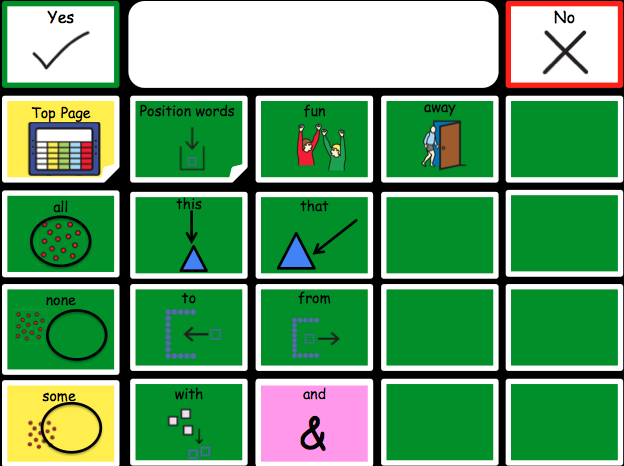
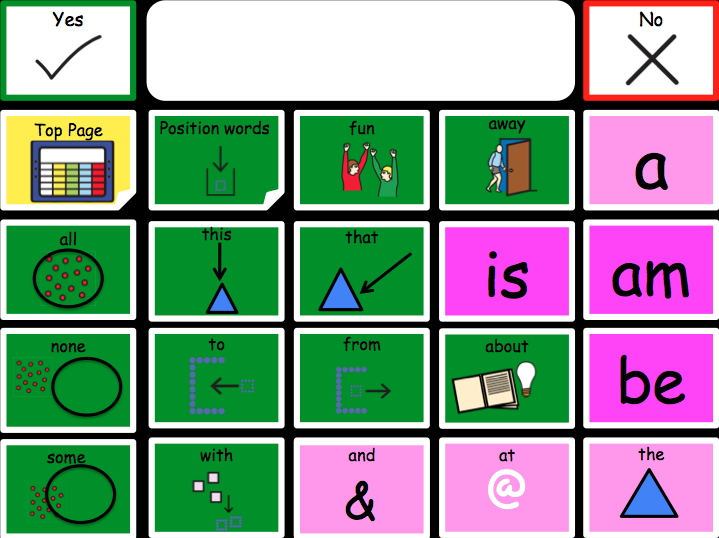
minor corrections

diff --git a/main.js b/main.js
@@ -1,5 +1,40 @@
 
 function aboutme(){
+reset();
+	keys[0][0]="yes";
+	keys[1][0]="";
+	keys[2][0]="";
+	keys[3][0]="";
+	keys[4][0]="no";
+
+	links[0][1]="1";
+	keys[1][1]="Name";
+	keys[2][1]="I live in...";
+	keys[3][1]="Birthday...";
+	keys[4][1]="age...";
+
+	keys[0][2]="I live with...";
+	keys[1][2]="pet.. ";
+	keys[2][2]="School college...";
+	keys[3][2]="email..";
+	keys[4][2]="work...";
+
+	keys[0][3]="communication aid..";
+	keys[1][3]="music..";
+	keys[2][3]="film..";
+	keys[3][3]="hobby..";
+	keys[4][3]="tv...";
+
+	keys[0][4]="disability..."; 
+	keys[1][4]="mobile...";
+	links[2][4]="aboutyou";
+	keys[3][4]="";
+	keys[4][4]="";
+
+	document.main.src="images/aboutme.png";
+}
+
+function aboutyou(){
 	var i,j
 		for(j=0;j<5;j++)
 		{
@@ -39,7 +74,7 @@ function aboutme(){
 	keys[3][4]="";
 	keys[4][4]="";
 
-	document.main.src="images/aboutme.png";
+	document.main.src="images/aboutyou.png";
 }
 
 function action(){
@@ -1359,25 +1394,25 @@ function littlewords(){
 	links[1][1]="positionwords";
 	keys[2][1]="fun";
 	keys[3][1]="away";
-	keys[4][1]="";
+	keys[4][1]="a";
 
 	keys[0][2]="all";
 	keys[1][2]="this";
 	keys[2][2]="that";
-	keys[3][2]="";
-	keys[4][2]="";
+	keys[3][2]="is";
+	keys[4][2]="am";
 
 	keys[0][3]="none";
 	keys[1][3]="to";
 	keys[2][3]="from";
-	keys[3][3]="";
-	keys[4][3]="";
+	keys[3][3]="about";
+	keys[4][3]="be";
 
 	keys[0][4]="some"; 
 	keys[1][4]="with";
 	keys[2][4]="and";
-	keys[3][4]="";
-	keys[4][4]="";
+	keys[3][4]="at";
+	keys[4][4]="the";
 
 	document.main.src="images/littlewords.png";
 }

diff --git a/javascript/aboutme.js b/javascript/aboutme.js
@@ -1,14 +1,6 @@
 
 function aboutme(){
-	var i,j
-		for(j=0;j<5;j++)
-		{
-			for(i=0;i<5;i++)
-			{
-				keys[i][j]="link";
-				links[i][j]="blank";
-			}
-		}
+reset();
 	keys[0][0]="yes";
 	keys[1][0]="";
 	keys[2][0]="";
@@ -16,26 +8,26 @@ function aboutme(){
 	keys[4][0]="no";
 
 	links[0][1]="1";
-	keys[1][1]="What's your name?";
-	keys[2][1]="Where do you live?";
-	keys[3][1]="When's your birthday?";
-	keys[4][1]="How old are you?";
+	keys[1][1]="Name";
+	keys[2][1]="I live in...";
+	keys[3][1]="Birthday...";
+	keys[4][1]="age...";
 
-	keys[0][2]="Who do you live with?";
-	keys[1][2]="Do you have a pet?";
-	keys[2][2]="Tell me about your day?";
-	keys[3][2]="What's your email?";
-	keys[4][2]="Where do you work?";
+	keys[0][2]="I live with...";
+	keys[1][2]="pet.. ";
+	keys[2][2]="School college...";
+	keys[3][2]="email..";
+	keys[4][2]="work...";
 
-	keys[0][3]="What's your mobile number?";
-	keys[1][3]="What music do you like?";
-	keys[2][3]="What films do you like?";
-	keys[3][3]="What's your hobby?";
-	keys[4][3]="What TV do you like?";
+	keys[0][3]="communication aid..";
+	keys[1][3]="music..";
+	keys[2][3]="film..";
+	keys[3][3]="hobby..";
+	keys[4][3]="tv...";
 
-	keys[0][4]="Do you have a disability?"; 
-	keys[1][4]="";
-	keys[2][4]="";
+	keys[0][4]="disability..."; 
+	keys[1][4]="mobile...";
+	links[2][4]="aboutyou";
 	keys[3][4]="";
 	keys[4][4]="";
 

diff --git a/javascript/aboutyou.js b/javascript/aboutyou.js
@@ -1,0 +1,43 @@
+
+function aboutyou(){
+	var i,j
+		for(j=0;j<5;j++)
+		{
+			for(i=0;i<5;i++)
+			{
+				keys[i][j]="link";
+				links[i][j]="blank";
+			}
+		}
+	keys[0][0]="yes";
+	keys[1][0]="";
+	keys[2][0]="";
+	keys[3][0]="";
+	keys[4][0]="no";
+
+	links[0][1]="1";
+	keys[1][1]="What's your name?";
+	keys[2][1]="Where do you live?";
+	keys[3][1]="When's your birthday?";
+	keys[4][1]="How old are you?";
+
+	keys[0][2]="Who do you live with?";
+	keys[1][2]="Do you have a pet?";
+	keys[2][2]="Tell me about your day?";
+	keys[3][2]="What's your email?";
+	keys[4][2]="Where do you work?";
+
+	keys[0][3]="What's your mobile number?";
+	keys[1][3]="What music do you like?";
+	keys[2][3]="What films do you like?";
+	keys[3][3]="What's your hobby?";
+	keys[4][3]="What TV do you like?";
+
+	keys[0][4]="Do you have a disability?"; 
+	keys[1][4]="";
+	keys[2][4]="";
+	keys[3][4]="";
+	keys[4][4]="";
+
+	document.main.src="images/aboutyou.png";
+}

diff --git a/javascript/littlewords.js b/javascript/littlewords.js
@@ -19,25 +19,25 @@ function littlewords(){
 	links[1][1]="positionwords";
 	keys[2][1]="fun";
 	keys[3][1]="away";
-	keys[4][1]="";
+	keys[4][1]="a";
 
 	keys[0][2]="all";
 	keys[1][2]="this";
 	keys[2][2]="that";
-	keys[3][2]="";
-	keys[4][2]="";
+	keys[3][2]="is";
+	keys[4][2]="am";
 
 	keys[0][3]="none";
 	keys[1][3]="to";
 	keys[2][3]="from";
-	keys[3][3]="";
-	keys[4][3]="";
+	keys[3][3]="about";
+	keys[4][3]="be";
 
 	keys[0][4]="some"; 
 	keys[1][4]="with";
 	keys[2][4]="and";
-	keys[3][4]="";
-	keys[4][4]="";
+	keys[3][4]="at";
+	keys[4][4]="the";
 
 	document.main.src="images/littlewords.png";
 }
